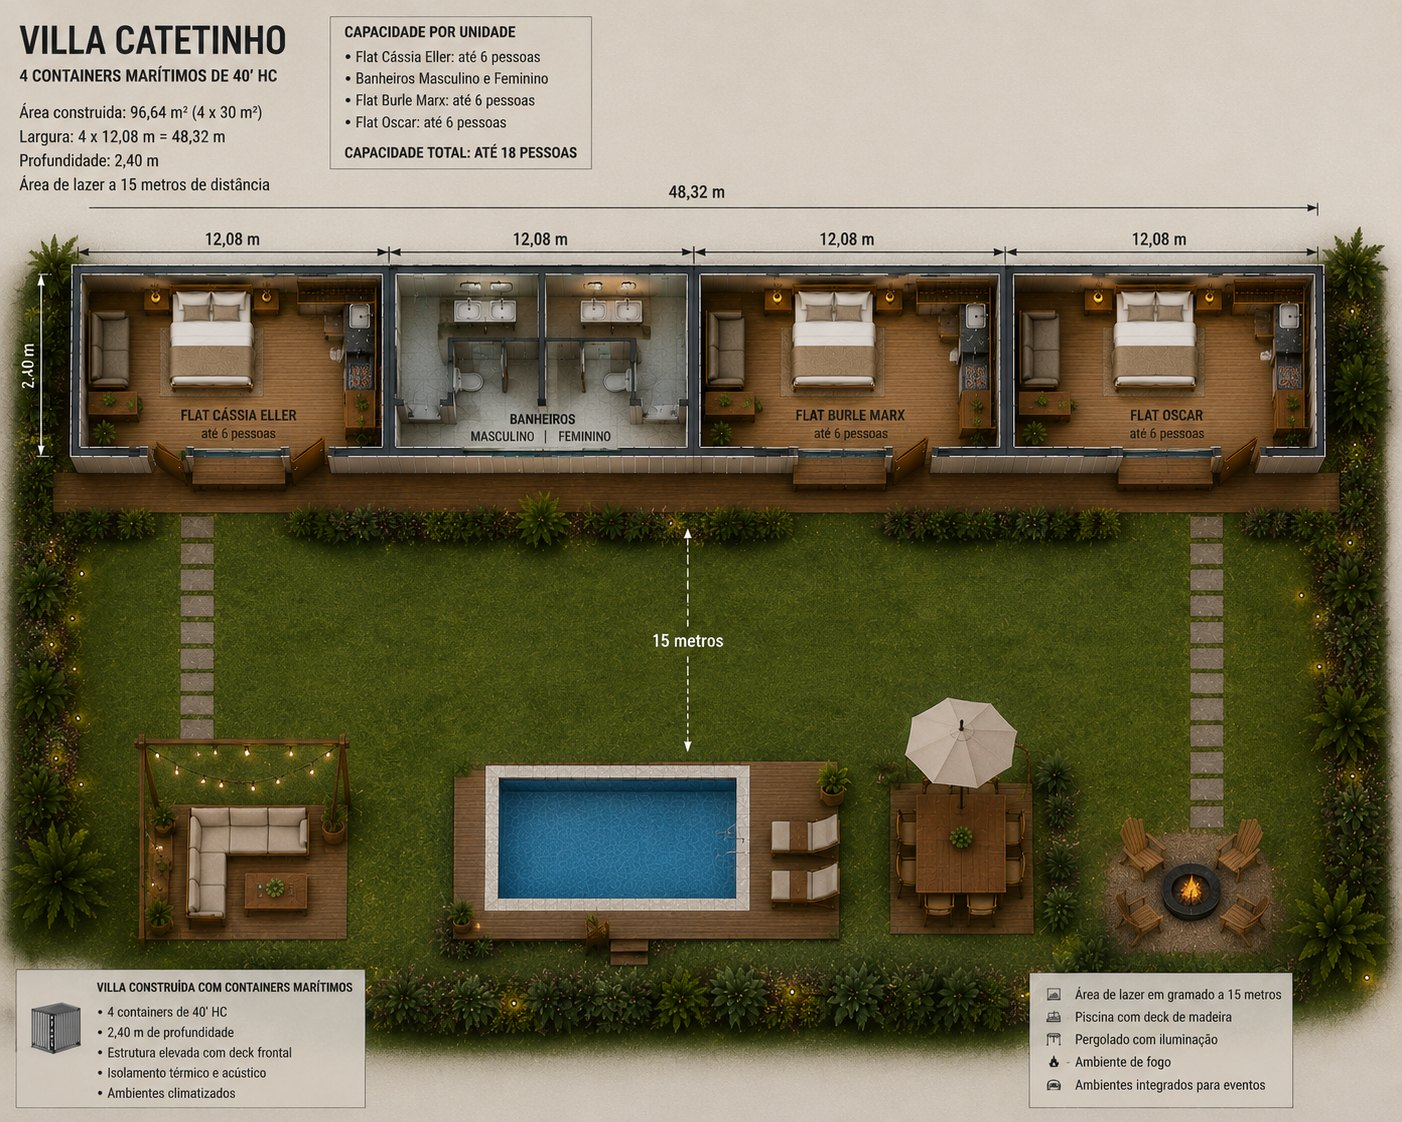
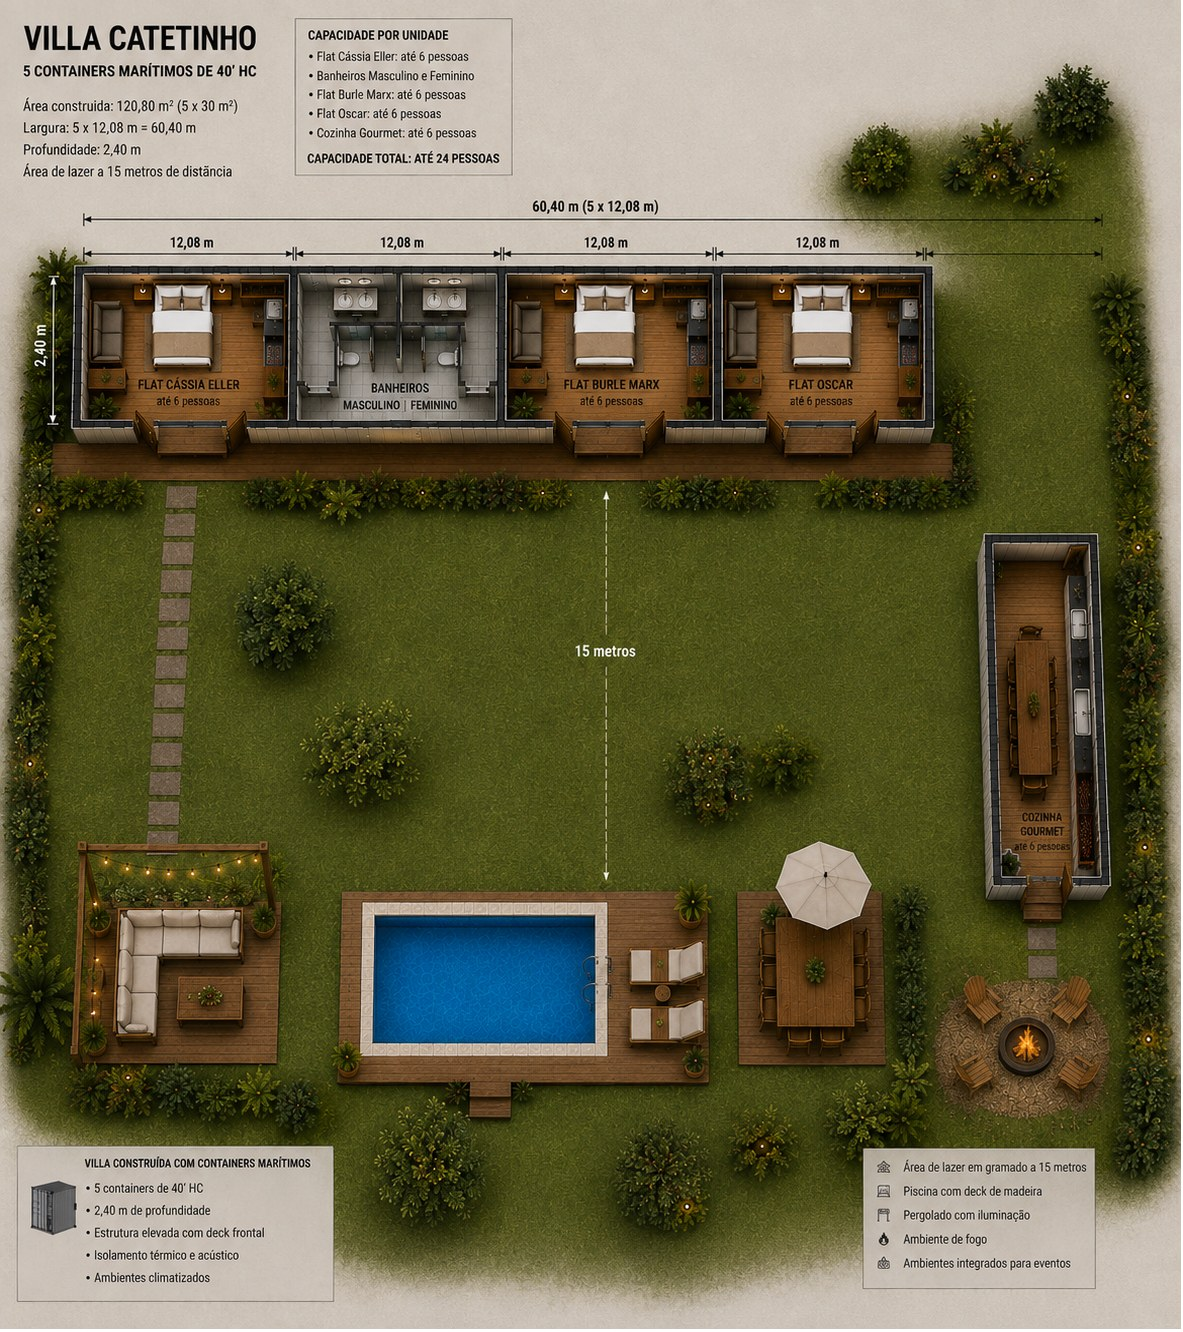
feat(site): planta da Catetinho atualizada e planta da Kubitschek nas unidades
Catetinho: a versao de 4 containers (18 pessoas) cede lugar a de 5, que
inclui a Cozinha Gourmet — 120,80 m2 e ate 24 pessoas. Vale nas mesmas 4
paginas: a casa e os flats Cassia Eller, Burle Marx e Oscar.

Kubitschek: a planta passa a aparecer tambem nas 6 unidades que ficam
nela — Suite do Amor, Flat dos Solteiros, Suite do Chef, Suite do Renato
Russo, Flat da Familia e Flat dos Amigos.

Ficam 19 das 20 paginas com planta; falta so o Jardim dos Sentidos.

diff --git a/site/build.js b/site/build.js
@@ -701,10 +701,18 @@ const PLANTAS = {
   UH05H: 'casa-modernista.jpg', UH06H: 'casa-modernista.jpg',
   // idem para os 3 flats da Villa Catetinho (Cássia Eller, Burle Marx e Oscar)
   UF08H: 'villa-catetinho.jpg', UF01H: 'villa-catetinho.jpg', UF07H: 'villa-catetinho.jpg',
+  // e para as unidades da Villa Kubitschek (Amor, Solteiros, Chef, Renato Russo, Família e Amigos)
+  UF06H: 'villa-kubitschek.jpg', UD03H: 'villa-kubitschek.jpg',
+  UF05H: 'villa-kubitschek.jpg', UD09H: 'villa-kubitschek.jpg',
+  VH01H: 'villa-kubitschek.jpg', VH02H: 'villa-kubitschek.jpg',
 };
 // Anúncios de quarto/flat que exibem a planta da casa inteira: a legenda muda para não dar a
 // entender que a planta é só da unidade reservada.
-const PLANTA_DA_CASA = new Set(['UH01H', 'UH03H', 'UH04H', 'UH05H', 'UH06H', 'UF08H', 'UF01H', 'UF07H']);
+const PLANTA_DA_CASA = new Set([
+  'UH01H', 'UH03H', 'UH04H', 'UH05H', 'UH06H',   // Casa Modernista
+  'UF08H', 'UF01H', 'UF07H',                     // Villa Catetinho
+  'UF06H', 'UD03H', 'UF05H', 'UD09H', 'VH01H', 'VH02H',   // Villa Kubitschek
+]);
 fs.mkdirSync(path.join(DIST, 'plantas'), { recursive: true });
 for (const p of new Set(Object.values(PLANTAS))) fs.copyFileSync(path.join(__dirname, 'src', 'plantas', p), path.join(DIST, 'plantas', p));
 
